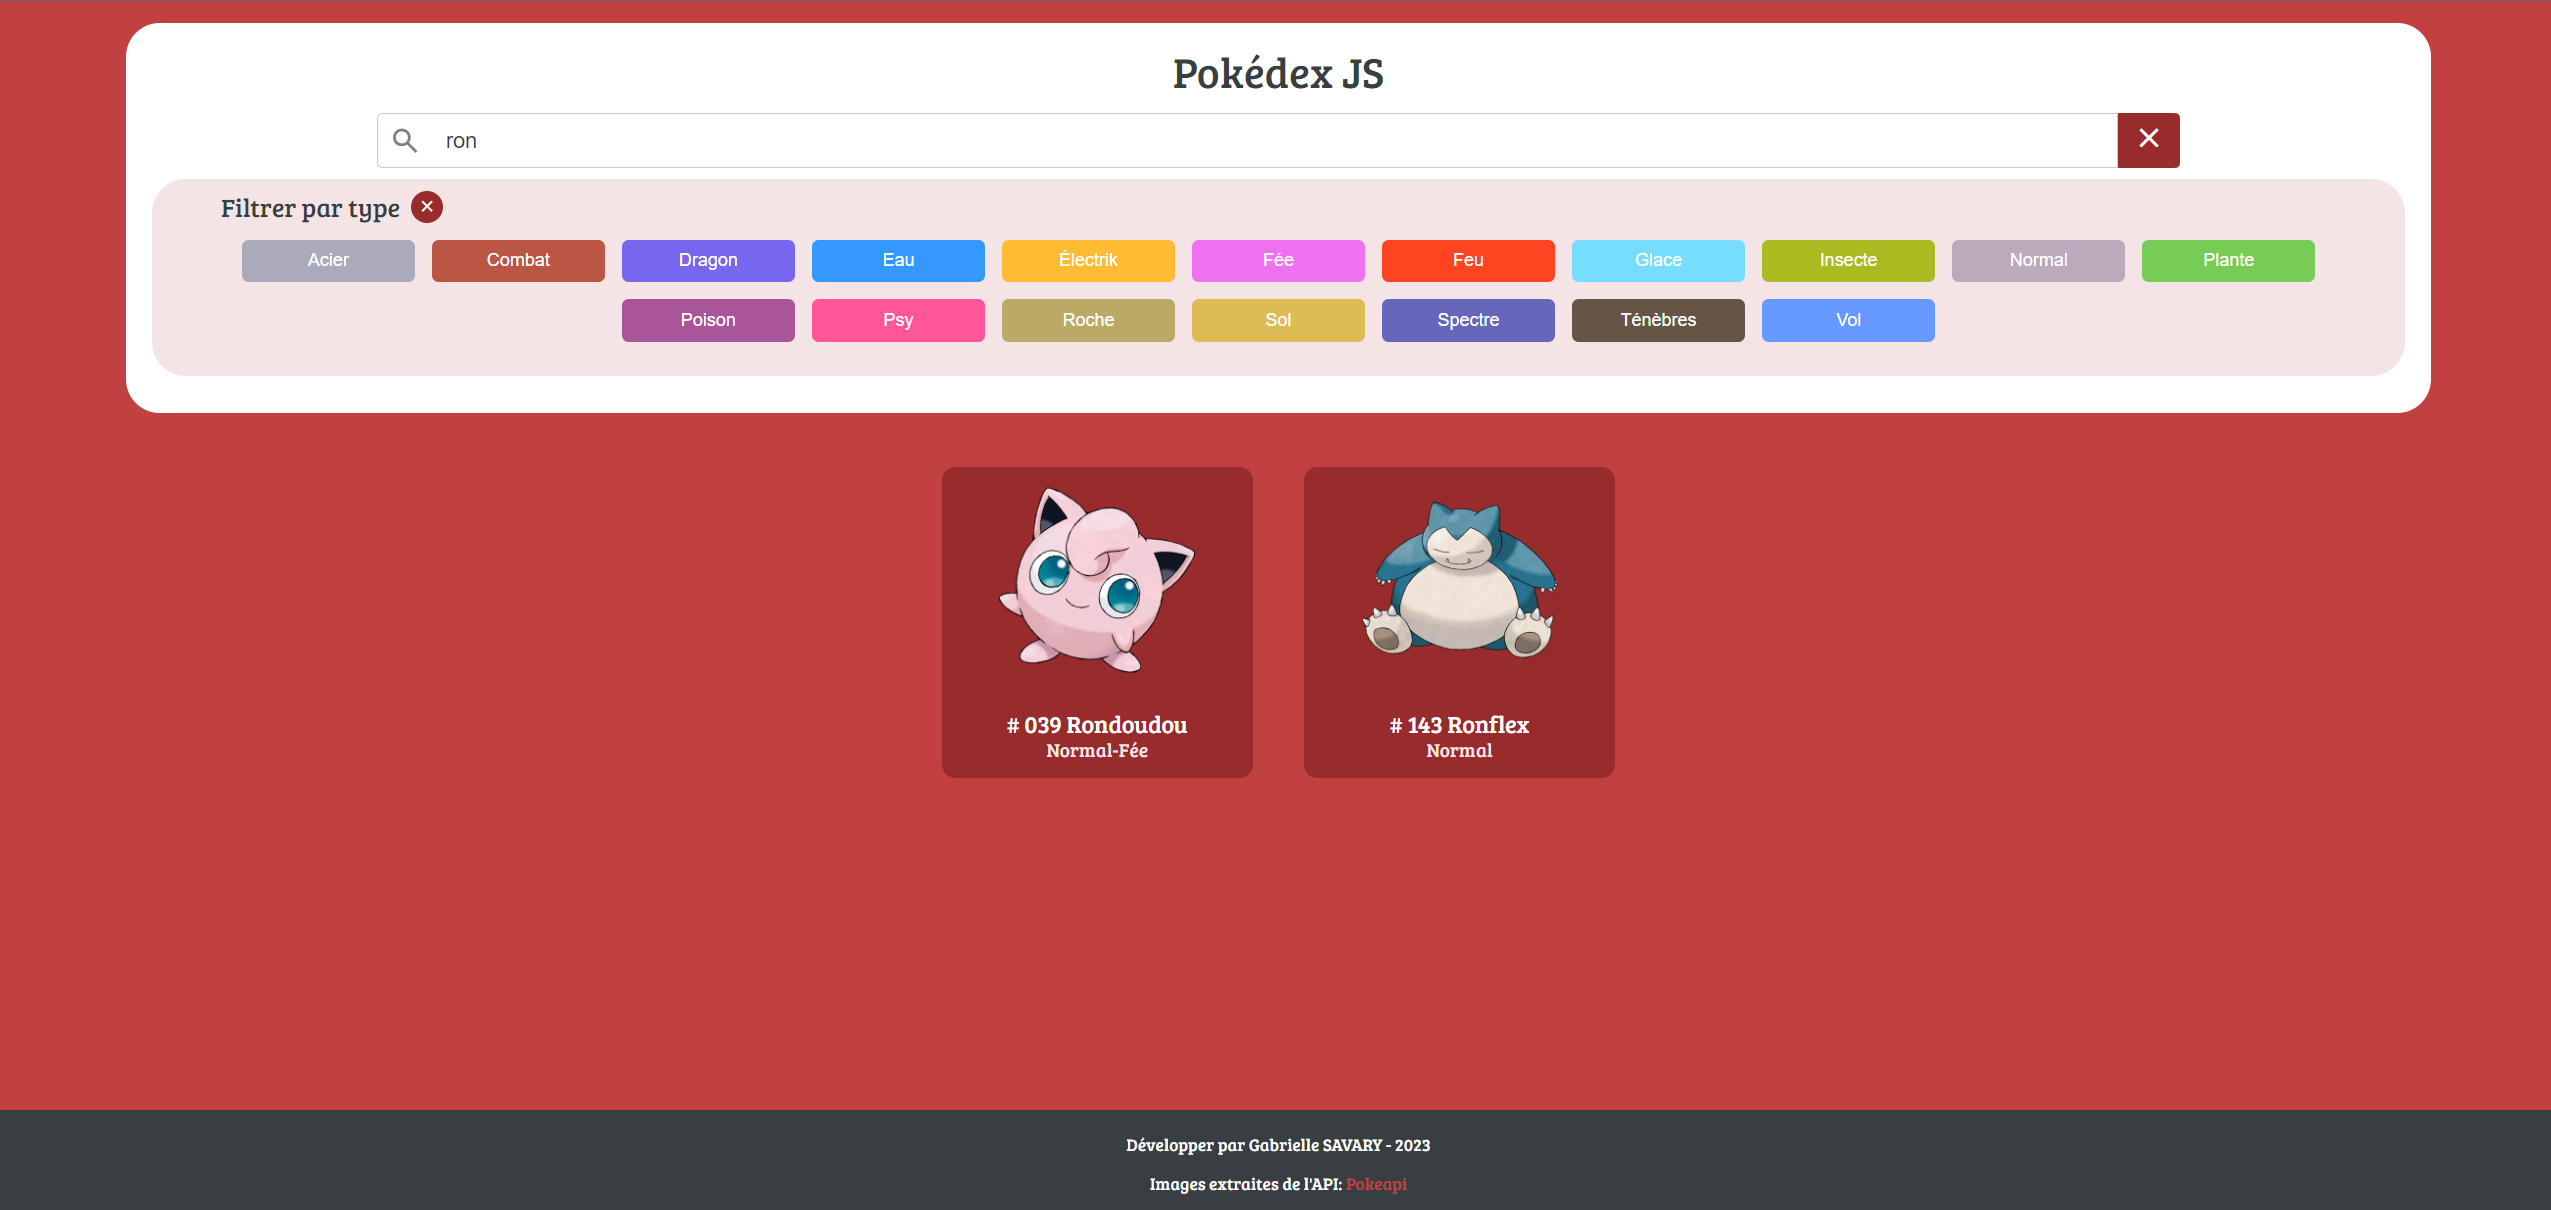
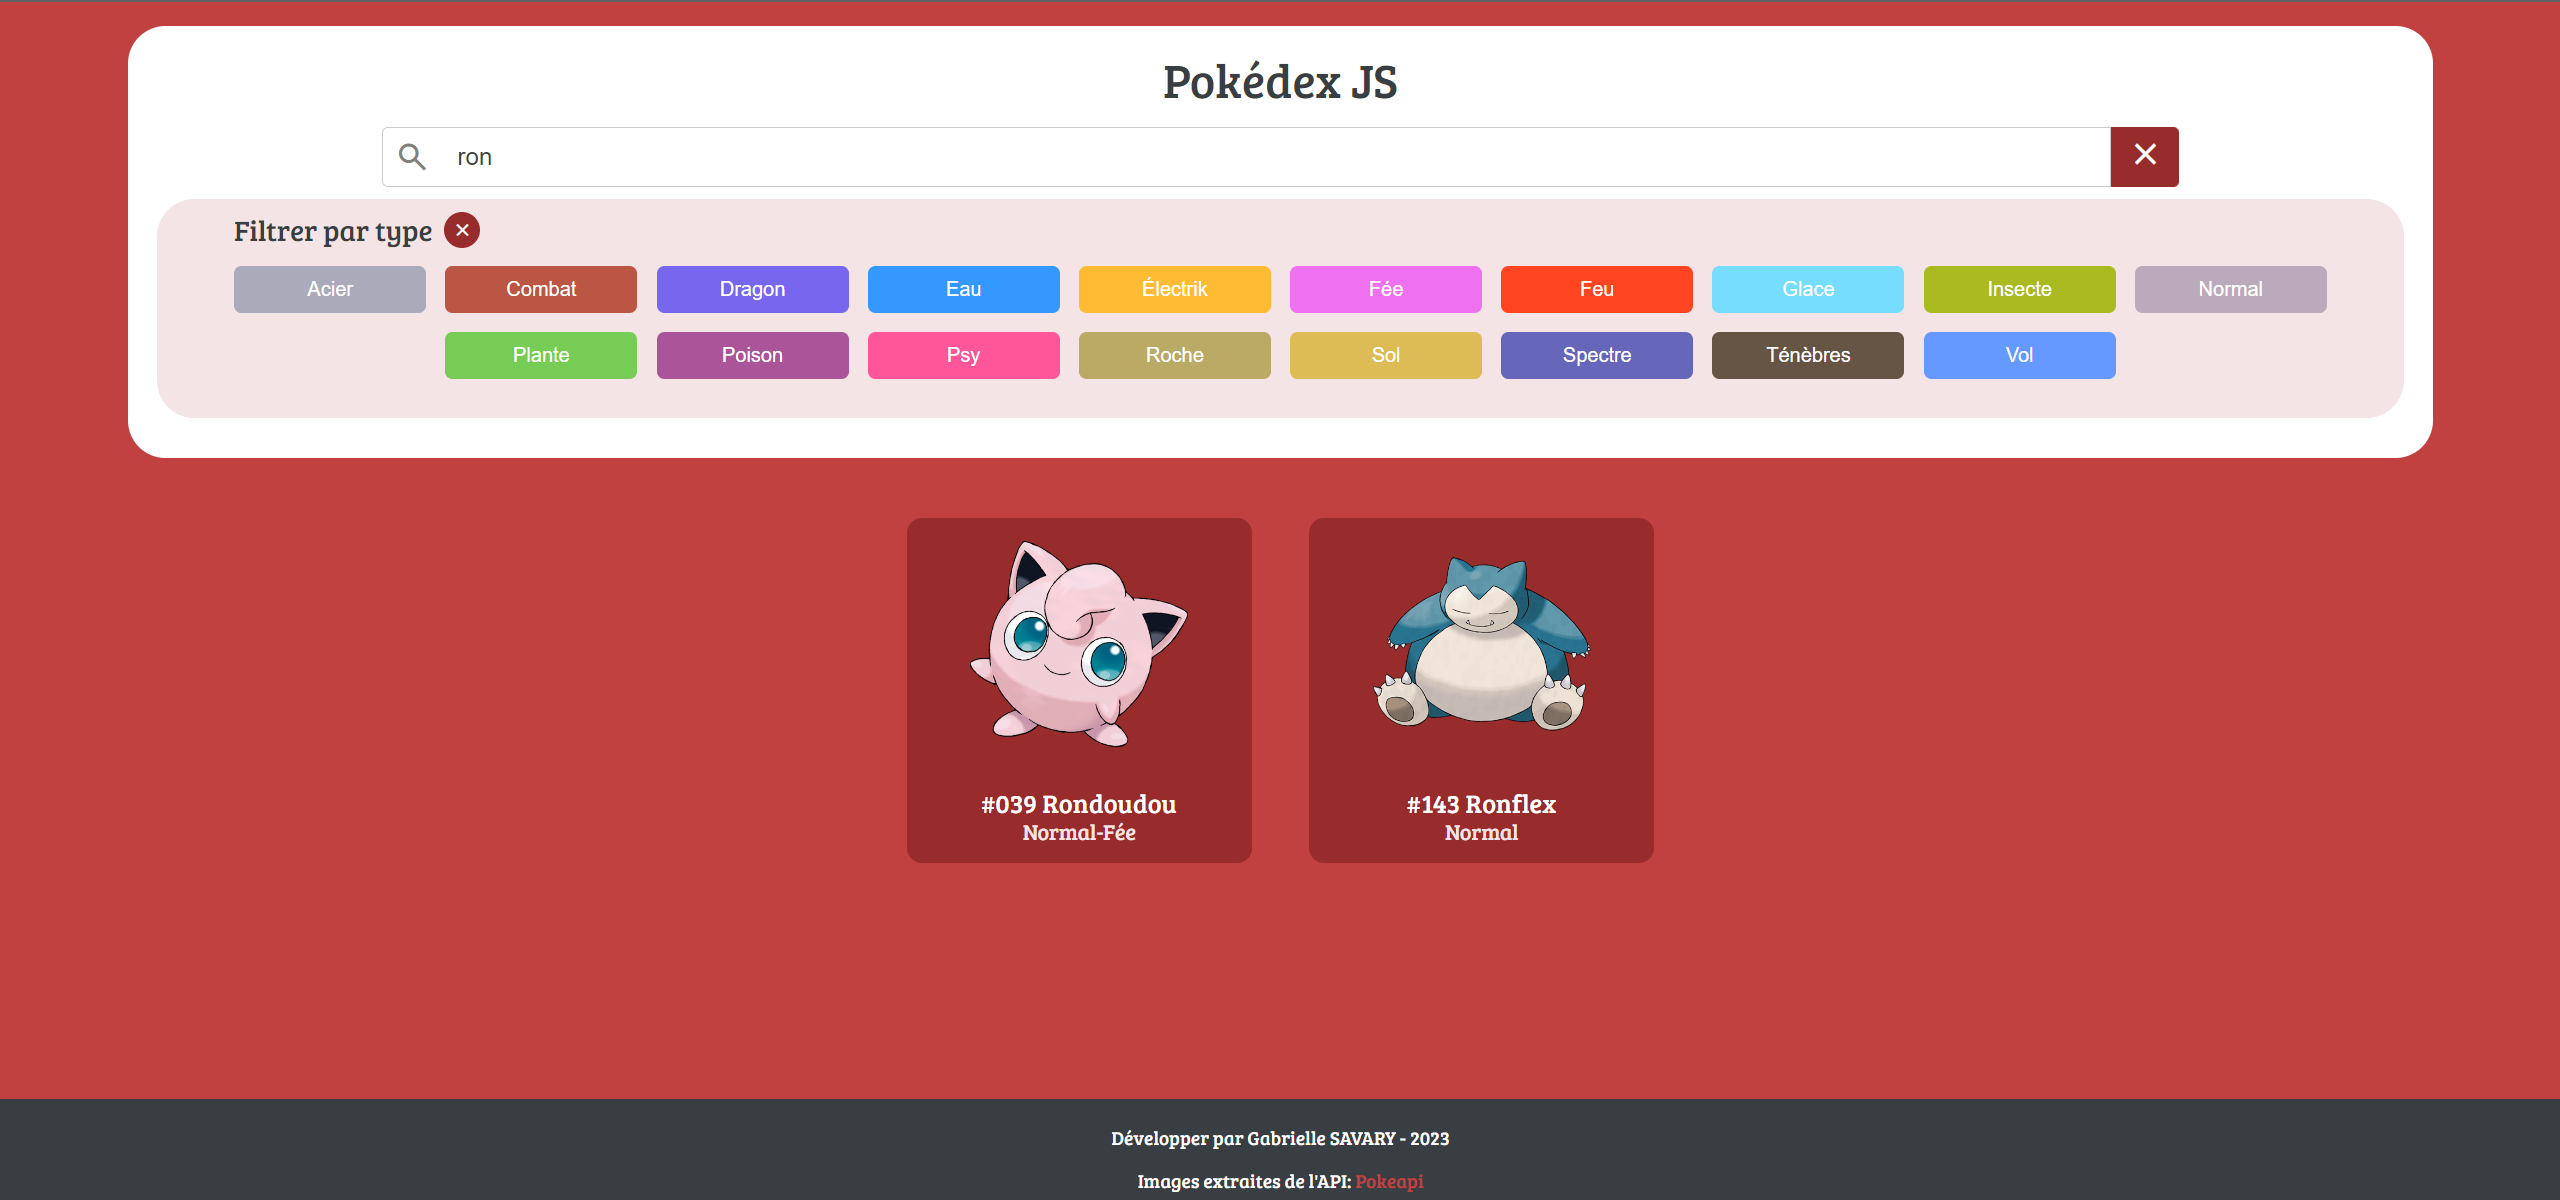
Update results images

Changed region(s): [[0.031, 0.0925, 0.96, 0.74], [0.0619, 0.0, 0.96, 0.0925], [0.4336, 0.925, 0.5574, 1.0]]

diff --git a/assets/js/app.js b/assets/js/app.js
@@ -16,7 +16,7 @@ const app = {
 		}
 	},
 
-	// Chargement du fichier JSON du pokedex
+	// Chargement du fichier JSON des types de Pokémons
 	getPokemonsTypes: async function () {
 		try {
 			const response = await fetch('./data/pokemonsTypes.json');
@@ -29,7 +29,7 @@ const app = {
 	},
 
 	// FONCTIONS DE CREATION D'ELEMENTS DANS LE DOM
-		// Créer et affiche les cartes Pokémons dans le DOM
+	// Créer et affiche les cartes Pokémons dans le DOM
 	displayPokemon: function (pokemonList) {
 		// Récupère le conteneur où sont affichés les cartes Pokémon
 		const pokemonsList = document.getElementById('pokemons-list');
@@ -47,7 +47,7 @@ const app = {
 
 			// Créez un élément pour afficher l'identification du Pokémon
 			const pokemonIdentification = document.createElement('h2');
-			pokemonIdentification.textContent = `# ${pokemon.index} ${pokemon.name}`;
+			pokemonIdentification.textContent = `#${pokemon.index} ${pokemon.name}`;
 			pokemonIdentification.classList.add('pokemon-identification');
 			// Créez un élément pour afficher le type du Pokémon
 			const pokemonType = document.createElement('h3');
@@ -75,7 +75,7 @@ const app = {
 		const filtersContainer = document.querySelector('.types-list__filters-container');
 		// Crée un bouton pour chaque type de Pokémon
 		types.forEach(type => {
-			// Sélection et ajout d'une classe de style au bouton 
+			// Création du bouton 
 			const button = document.createElement('button');
 			button.textContent = type.typeName;
 			button.classList.add('type-filter-button');
@@ -123,18 +123,24 @@ const app = {
 		const searchInput = document.getElementById('search-input');
 		// Texte recherché par l'utilisateur
 		const searchTerm = searchInput.value.toLowerCase();
-		// Sélection de tous les Pokémon
-		const pokemonCards = document.querySelectorAll('.pokemon-card');
-		// Recherche
-		pokemonCards.forEach(pokemonCard => {
-			const pokemonIdentity = pokemonCard.querySelector('.pokemon-identification').textContent.toLowerCase();
-			const pokemonType = pokemonCard.querySelector('.pokemon-type').textContent.toLowerCase();
-			if (pokemonIdentity.includes(searchTerm) || pokemonType.includes(searchTerm)) {
-				pokemonCard.style.display = 'flex';
-			} else {
-				pokemonCard.style.display = 'none';
-			}
-		});
+		// Vérifie si le texte recherché est valide (lettres, chiffres et espaces)
+		const validSearchTerm = searchTerm.match(/^[a-zA-Z0-9\s]*$/);
+		// Si le texte recherché est valide
+		if (validSearchTerm) {
+			const searchTerms = searchTerm.split(' ')
+			// Sélection de tous les Pokémon
+			const pokemonCards = document.querySelectorAll('.pokemon-card');			
+			// Recherche
+			pokemonCards.forEach(pokemonCard => {
+				const pokemonIdentity = pokemonCard.querySelector('.pokemon-identification').textContent.toLowerCase();
+				const pokemonType = pokemonCard.querySelector('.pokemon-type').textContent.toLowerCase();
+				if (pokemonIdentity.includes(searchTerm) || pokemonType.includes(searchTerm)) {
+					pokemonCard.style.display = 'flex';
+				} else {
+					pokemonCard.style.display = 'none';
+				}
+			});			
+		}
 		// Supprime la classe active de tous les boutons filtres de type
 		app.clearActiveTypeFilter();
 	},
@@ -173,7 +179,7 @@ const app = {
 		});
 	},
 
-	// ECOUTEURS D'EVENEMENTS POURR L'INITIALISATION DE L'APPLICATION
+	// ECOUTEURS D'EVENEMENTS POUR L'INITIALISATION DE L'APPLICATION
 	// Ecouteur d'événement sur la barre de recherche
 	handleTypeSearchBar: function () {
 		// Ajoute un écouteur d'évenement sur l'input pour faire la recherche

diff --git a/index.html b/index.html
@@ -6,7 +6,7 @@
     <meta name="viewport" content="width=device-width, initial-scale=1.0">
     <meta name="description" content="Découvrez les 151 premiers Pokémon avec ce Pokédex. Recherchez des Pokémon par nom ou type.">
     <meta name="keywords" content="Pokédex, Pokémon, liste de Pokémon, types de Pokémon, recherche de Pokémon">
-    <title>Pokedex JS</title>
+    <title>Pokédex JS</title>
     <link rel="preconnect" href="https://fonts.googleapis.com">
     <link rel="preconnect" href="https://fonts.gstatic.com" crossorigin>
     <link href="https://fonts.googleapis.com/css2?family=Bree+Serif&display=swap" rel="stylesheet">
@@ -44,9 +44,6 @@
                 <!-- Boutons de filtre des types de Pokémon affichés ici -->
             </div>
         </div>
-
-
-
     </header>
     <main>
         <div id="pokemons-list">

diff --git a/assets/css/style.css b/assets/css/style.css
@@ -285,14 +285,8 @@ footer a {
   }
   .pokemon-identification {
     font-size: 1.1rem;
-    color: #fff;
   }
-  
-  .pokemon-type {
-    padding-top: 0.2rem;
-    font-size: 0.9rem;
-    color: #F5E4E5;
-  }
+
 }
 
 

diff --git a/README.md b/README.md
@@ -41,4 +41,5 @@ Il s'inspire d'un exercice bonus conçu par l'organisme de formation O'clock de 
 ### Desktop
 <img src="./assets/img/results/Pokedex-desktop.png" width="800" height="400">
 <img src="./assets/img/results/Search-desktop.png" width="800" height="400">
+![Alt text](image.png)
 
